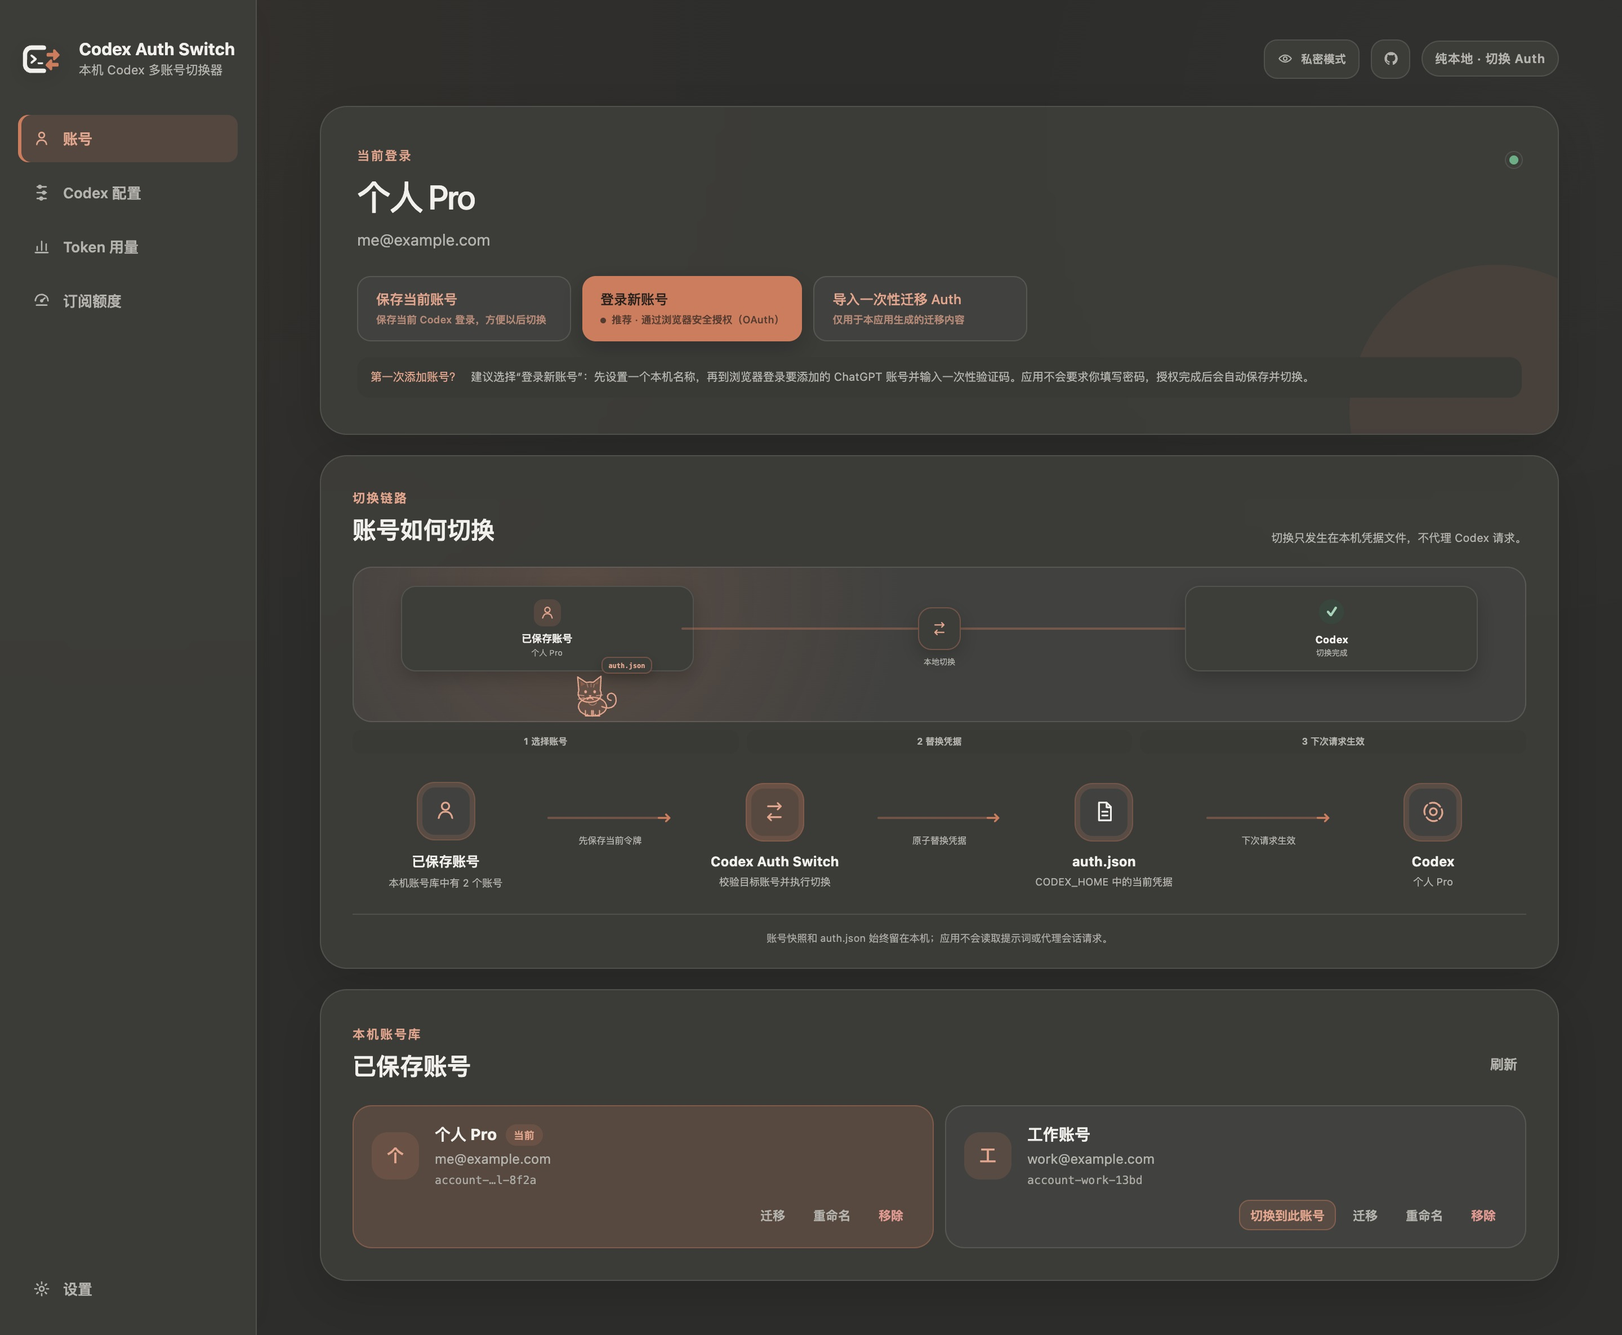
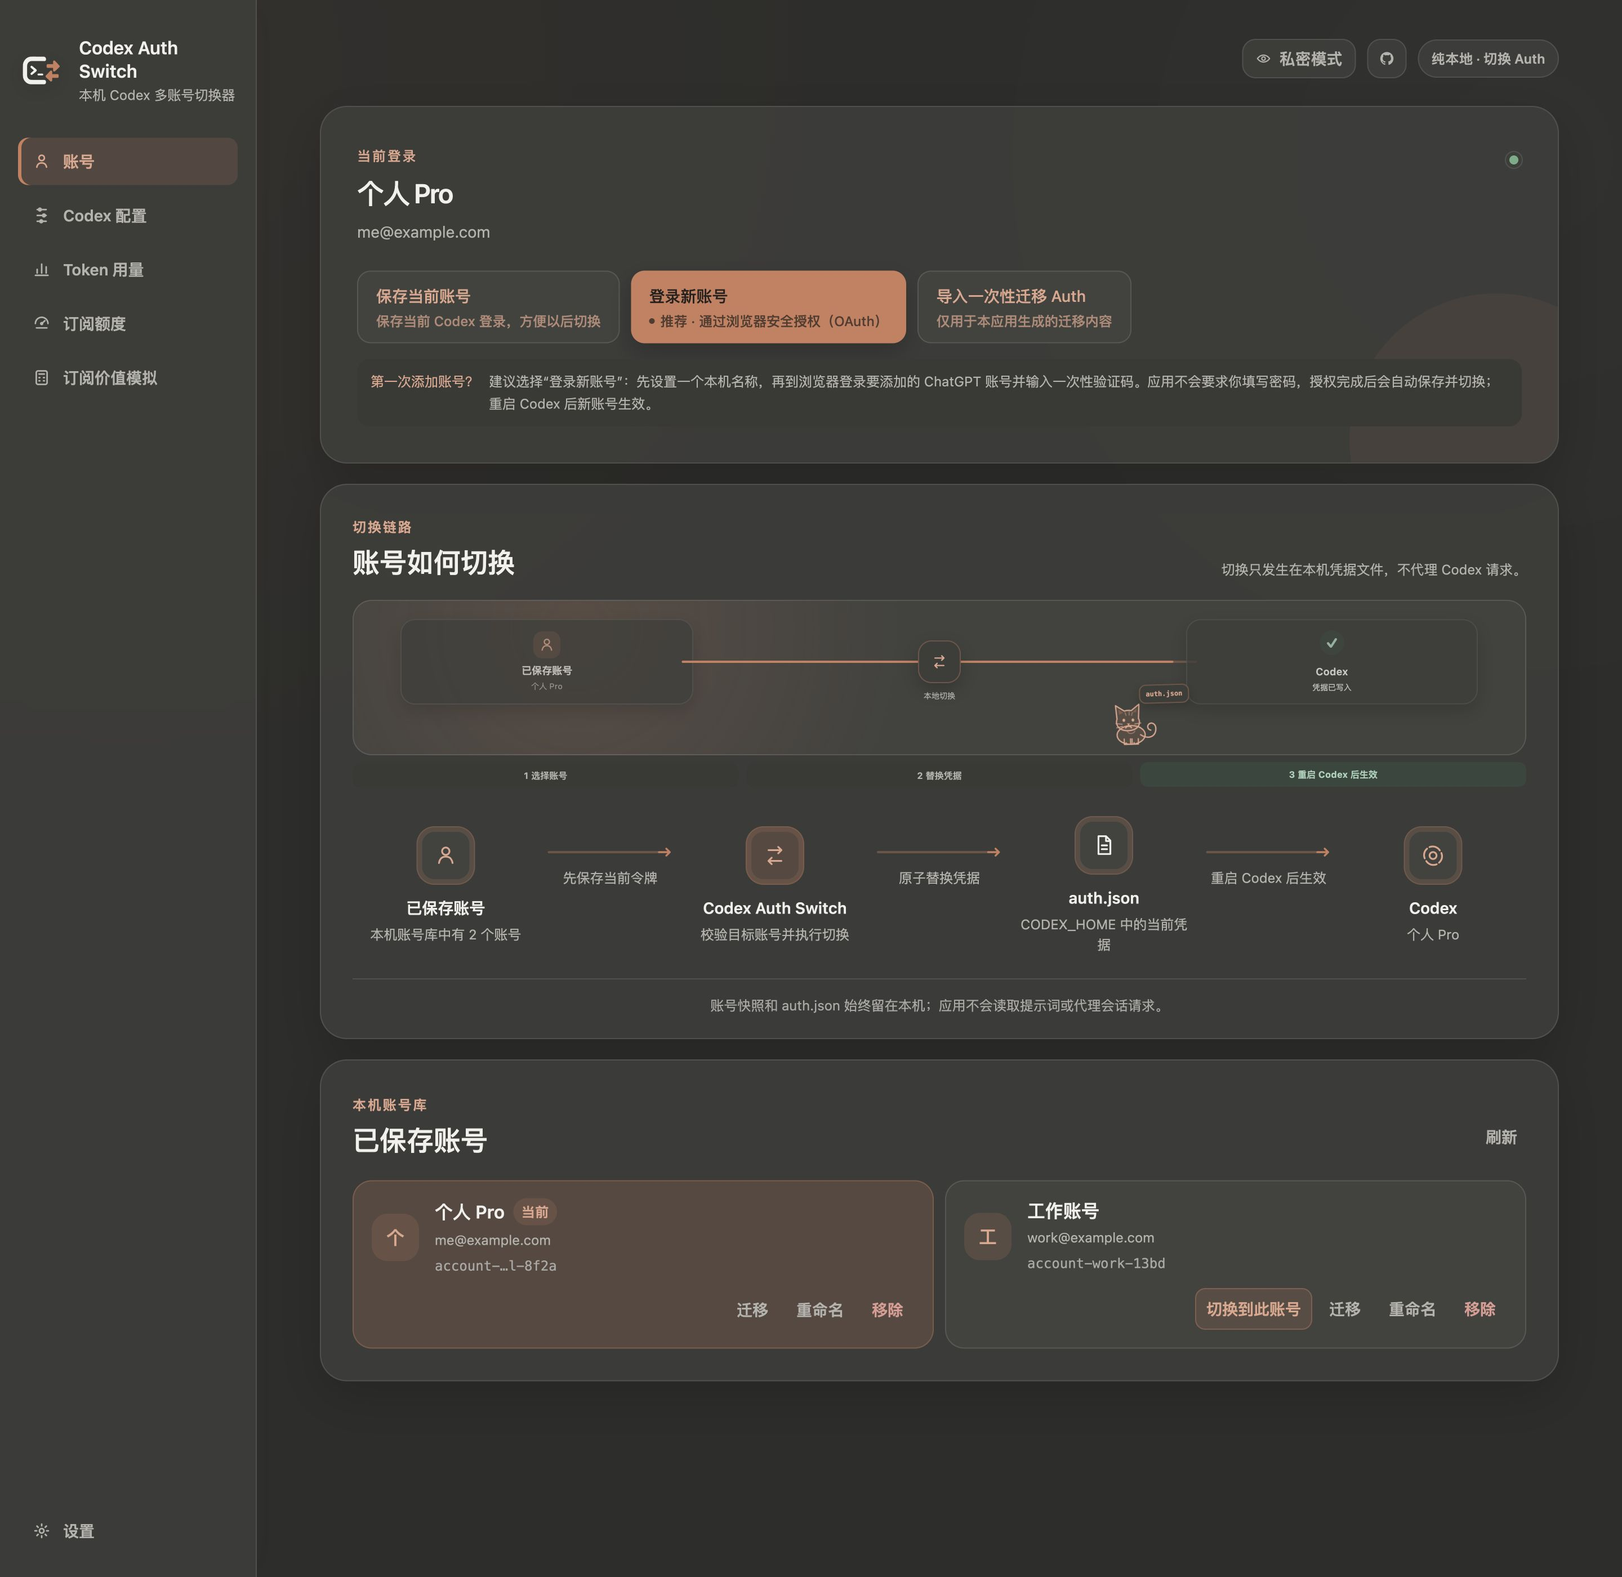
docs: 更新 README 说明

diff --git a/README.en.md b/README.en.md
@@ -16,17 +16,21 @@
   <a href="https://github.com/Mintimate/codex-auth-switch/releases/latest">Download</a> ·
   <a href="#quick-start">Quick start</a> ·
   <a href="#codex-configuration">Codex configuration</a> ·
+  <a href="#subscription-value-simulator">Value simulator</a> ·
   <a href="#security-boundaries">Security</a> ·
   <a href="#development">Development</a> ·
   <a href="https://github.com/Mintimate/codex-auth-switch/issues">Report an issue</a>
 </p>
 
-<picture>
-  <source media="(prefers-color-scheme: dark)" srcset="./docs/images/dashboard-dark.jpg">
-  <img src="./docs/images/dashboard-light.jpg" alt="Codex Auth Switch: current login, switching flow, and local account vault">
-</picture>
+<a href="./docs/images/dashboard-light.jpg">
+  <picture>
+    <source media="(prefers-color-scheme: dark)" srcset="./docs/images/dashboard-dark.jpg">
+    <img src="./docs/images/dashboard-light.jpg" alt="Codex Auth Switch: current account, sign-in actions, and switching flow">
+  </picture>
+</a>
 
-> Screenshots show the Chinese interface with built-in preview data. They contain no real accounts, tokens, or authentication data.
+> Both READMEs use Chinese UI screenshots from the app's built-in demo data. They contain no real accounts, tokens, or authentication data.
+> Static screenshots are rendered at 2× resolution, with originals 2880 pixels wide; the GIF retains its original dimensions. Click an image to view the original.
 
 Codex Auth Switch saves and switches multiple Codex ChatGPT logins on one device. It also provides Codex configuration editing, local Token usage, subscription quotas, subscription value simulation, and environment diagnostics. It does not proxy Codex requests, collect telemetry, or manage API keys, subscription billing, or workspace seats.
 
@@ -35,35 +39,45 @@ Codex Auth Switch saves and switches multiple Codex ChatGPT logins on one device
 
 ## Highlights
 
-- Save, rename, and switch local accounts while preserving rotated tokens before each switch
-- Add an account through browser-based Device Code authorization without entering a password in the app
-- Configure credential storage, the 1M context preset, reasoning effort and summaries, response verbosity, and web search
-- Summarize local session Tokens for today, 7 days, and 30 days, split by account and model provider
-- Show subscription quotas in a compact account list with search, status filters, and sorting by quota, recovery time, usage, or reset credits
-- Use a dedicated subscription value simulator to estimate the USD value of 7 / 30 days of usage with task presets, a reference model, adjustable shares, and a cost breakdown; optionally make it the default startup page
-- Show quota windows, recovery timelines, 7-day and 30-day Tokens, and daily activity heatmaps
-- Refresh usage, quotas, or account usage for the value simulator when opening each page, with an option to load data manually
-- Transfer Auth once through a QR code or clipboard, with legacy CAS2 import compatibility
-- Run read-only diagnostics, hide emails with privacy mode, and use light/dark themes, Chinese/English UI, and signed updates from GitHub or CNB
+The sidebar organizes actions and data into six pages:
+
+| Page                         | Purpose                                                                                                                  |
+| ---------------------------- | ------------------------------------------------------------------------------------------------------------------------ |
+| Accounts                     | Save, rename, and switch local accounts; sign in through Device Code; transfer Auth once with a QR code or clipboard     |
+| Codex config                 | Edit credential storage, context window, reasoning, response verbosity, and web search settings                          |
+| Token usage                  | View local session totals, daily trends, and attribution by account and model provider                                   |
+| Subscription quotas          | Search, filter, and compare account quotas, recovery times, reset credits, and daily activity                            |
+| Subscription value simulator | Independently estimate the API value of 7 / 30 days of account usage with adjustable models, shares, and cost breakdowns |
+| Settings                     | Choose language, theme, privacy, and startup page; manage automatic refresh, diagnostics, and signed updates             |
+
+Consistent text sizes and responsive layouts keep controls, cards, and scrollable tables readable in narrower windows. The value simulator opens with its controls visible, can be the default startup page, and provides separate account-usage and price refresh actions.
 
 ## Interface Preview
 
-| Codex configuration                                                                                                | Token usage                                                                                                      |
-| ------------------------------------------------------------------------------------------------------------------ | ---------------------------------------------------------------------------------------------------------------- |
-| ![Codex configuration: credential storage, 1M context, model output, and web search](docs/images/config-light.jpg) | ![Token usage: local totals, daily trends, and attribution by account and provider](docs/images/usage-light.jpg) |
+**Subscription value simulator: task presets, input and cache shares, and cost breakdown**
 
-| Subscription quota overview                                                                                  | App settings                                                                                     |
-| ------------------------------------------------------------------------------------------------------------ | ------------------------------------------------------------------------------------------------ |
-| ![Subscription quota overview: account list, search filters, Token totals, and daily activity](docs/images/quota-light.jpg) | ![App settings: language, privacy, theme, and automatic refresh](docs/images/settings-light.jpg) |
+[![Dedicated value simulator: task presets, input and cache shares, and cost breakdown](docs/images/value-light.jpg)](docs/images/value-light.jpg)
 
 <details>
-<summary>Diagnostics and one-time Auth transfer</summary>
+<summary>View the value simulator in dark mode</summary>
 
-| Diagnostics                                                                 | One-time Auth transfer                                                                                                  |
-| --------------------------------------------------------------------------- | ----------------------------------------------------------------------------------------------------------------------- |
-| ![Read-only diagnostics and app updates](docs/images/diagnostics-light.jpg) | ![One-time Auth transfer dialog showing the preparation and generated-QR states](docs/images/auth-share-dialog.gif) |
+[![Subscription value simulator in dark mode](docs/images/value-dark.jpg)](docs/images/value-dark.jpg)
 
 </details>
+
+| Codex configuration                                                                                                         | Token usage                                                                                                               |
+| --------------------------------------------------------------------------------------------------------------------------- | ------------------------------------------------------------------------------------------------------------------------- |
+| [![Codex configuration: credential storage and context window](docs/images/config-light.jpg)](docs/images/config-light.jpg) | [![Token usage: local session totals, trends, and attribution](docs/images/usage-light.jpg)](docs/images/usage-light.jpg) |
+
+| Subscription quotas                                                                                                                    | Settings                                                                                                                              |
+| -------------------------------------------------------------------------------------------------------------------------------------- | ------------------------------------------------------------------------------------------------------------------------------------- |
+| [![Subscription quotas: account comparisons, filters, and activity heatmap](docs/images/quota-light.jpg)](docs/images/quota-light.jpg) | [![Settings: language, privacy, appearance, default page, and proxy](docs/images/settings-light.jpg)](docs/images/settings-light.jpg) |
+
+| Diagnostics                                                                                                                    | One-time Auth transfer                                                                                                                  |
+| ------------------------------------------------------------------------------------------------------------------------------ | --------------------------------------------------------------------------------------------------------------------------------------- |
+| [![Read-only environment diagnostics and check results](docs/images/diagnostics-light.jpg)](docs/images/diagnostics-light.jpg) | [![Auth transfer animation: preparation and demo QR-code states](docs/images/auth-share-dialog.gif)](docs/images/auth-share-dialog.gif) |
+
+The Auth transfer animation uses a built-in demo pattern with no usable credentials.
 
 ## Download and Install
 
@@ -118,23 +132,40 @@ Selecting **Default** removes the corresponding fields so Codex can use its defa
 
 ## Usage and Quotas
 
-The subscription value simulator has its own sidebar page, with estimation controls visible when opened. You can also make it the default startup page in Settings. It uses the same account usage data source as subscription quotas and can refresh that data directly, without first opening the quota page. Simulations use account daily token totals for 7 / 30 UTC calendar days including today. Select all accounts or one account; duplicate local profiles of the same subscription are counted once. Missing usage stays unknown, and failed refreshes retain clearly labeled prior data. This feature does not read or classify local sessions.
+| Page                         | Data source                                                | Meaning                                                                            |
+| ---------------------------- | ---------------------------------------------------------- | ---------------------------------------------------------------------------------- |
+| Token usage                  | Local Codex session metadata                               | This device's usage for today, 7 days, and 30 days; not account-wide totals        |
+| Subscription quotas          | Online account limits and daily Token totals               | Available quota, recovery times, and account usage; some fields may be unavailable |
+| Subscription value simulator | The same account daily totals, plus reference model prices | An API cost simulation based on assumptions, not a subscription or API bill        |
 
-Account daily totals do not include model, input/output, or cache breakdowns. Choose a reference model and assumed shares. The default multi-turn coding preset uses 99% input and 90% cached input; general multi-turn tasks use 90% input and 50% cached input; new tasks with little reuse use 80% input and 0% cached input. These presets are starting points for simulations, not task averages or measured account usage. Both shares can be adjusted with sliders and numeric inputs in 0.1% increments. Per-thread breakdowns in the current protocol cannot replace account-wide 7 / 30 day breakdowns.
+All three pages can refresh on demand; opening Accounts does not query quotas. Disable **Refresh when opened** under **Settings → Usage and quotas** to load data manually. The value simulator can refresh account usage directly, without opening the quota page first.
 
-The cached-input share is the proportion of assumed input tokens billed at the cached rate; it does not discount output. The page compares no cache with the selected cache assumption and breaks down tokens and costs for regular input, cached input, and output. A missing cached rate prevents calculation of the selected cache scenario only when the assumed cached-input count is greater than zero. Regular input and output-only usage can still be simulated at their respective rates.
+Refresh all accounts or one account at a time. Different accounts share two concurrent query slots; requests for the same account are serialized. Failures retain previous results and their timestamps; an initial failure offers a retry, and missing data stays unknown. Not every account returns every quota field. Wait before retrying a rate-limited request.
 
-Reusing a long, unchanged conversation prefix can improve cache hits; new tasks, compaction, model changes, or longer gaps can reduce reuse. The [multi-turn agent example in OpenAI's caching documentation](https://developers.openai.com/api/docs/guides/prompt-caching#multi-turn-agent) reports a cache-hit rate above 90%, but this is one deployment example, not an average for coding or general tasks. Adjust the assumptions to match how you work.
+<details>
+<summary>Local usage cache and cleanup</summary>
 
-Prices come from [OpenAI public pricing](https://developers.openai.com/api/docs/pricing). Bundled or cached prices load locally; **Fetch latest prices** downloads the public document without credentials or usage. Failures retain previous prices and their date. Simulations use current Standard short-context text rates, not subscription bills, and exclude long-context premiums, Fast, cache writes, tools, taxes and discounts. Pricing parsing is isolated from authentication and quota compatibility layers.
+Local usage supports `file`, `auto`, and `keyring` credential modes. The rebuildable `usage-cache.v2.json.gz` reuses unchanged file statistics, reads new complete lines incrementally, and rescans truncated or replaced files. It stores file validation metadata, provider identifiers, timestamps, and Token counts, without session bodies or authentication data. Account attribution depends on locally recorded switching history.
 
-**Token usage** aggregates local session metadata; **Subscription quotas** queries online account limits; the subscription value simulator uses account usage from that same online data source. All three pages can load and refresh data on demand, and opening the account page does not query subscription quotas. Disable **Refresh when opened** under **Settings → Usage and quotas** to load data manually with each page's button.
+The compressed cache is capped at 8 MiB and retains 35 days of statistics. Older entries can be evicted without affecting current complete totals. Startup and cache access remove caches not updated for 7 days, along with the legacy cache. View or clear it under **Settings → Usage and quotas**. Clearing preserves accounts, credentials, and session files; the next refresh rebuilds it as needed.
 
-When available, the quota page shows the plan, multiple quota windows, full-reset credits and expiry dates, account usage, and an activity heatmap. Not every account or data source returns all of these fields. Network errors can be retried manually; wait before retrying a rate-limited request.
+</details>
 
-Refresh all accounts or refresh one account from its card. Different accounts share two concurrent query slots; queries for the same account are serialized. Batch results appear as each account finishes. Failed refreshes retain the last successful result and show the error alongside the original query time.
+## Subscription Value Simulator
 
-Local usage works with `file`, `auto`, and `keyring` credential modes without migrating credentials. A rebuildable `usage-cache.v2.json.gz` in the app data directory reuses unchanged files, parses only new complete lines in appended files, and rescans truncated or replaced files. It stores file validation metadata, provider identifiers, event timestamps, and Token counts, without session bodies or authentication data. Account attribution still depends on locally recorded switching history. The compressed cache is capped at 8 MiB and retains 35 days of statistics. Older file entries are evicted when needed without changing the current complete totals. Startup and cache access remove caches not updated for 7 days, along with the legacy cache. View the size or clear it under **Settings → Usage and quotas**. Clearing preserves accounts, credentials, and Codex session files; the next refresh rebuilds the cache as needed.
+Select all accounts or one account to aggregate daily Token totals for 7 / 30 UTC calendar days including today. Duplicate local profiles of the same subscription are counted once. This feature does not read local sessions, and account totals do not reveal the actual model, input/output, or cache breakdown.
+
+| Simulation preset           | Input share | Cached-input share |
+| --------------------------- | ----------- | ------------------ |
+| Multi-turn coding (default) | 99%         | 90%                |
+| General multi-turn tasks    | 90%         | 50%                |
+| New tasks / little reuse    | 80%         | 0%                 |
+
+Presets are starting assumptions, **not averages, measured account usage, or actual bills**. Adjust both shares with sliders or numeric inputs in 0.1% increments. The cache share applies to input tokens; output receives no cache discount. The page compares against no cache and separates regular-input, cached-input, and output costs. A missing cached rate affects a scenario only when its assumed cached-input count is greater than zero.
+
+Reusing context can improve cache hits, while compaction, model changes, or longer gaps can reduce reuse. The [official multi-turn agent caching example](https://developers.openai.com/api/docs/guides/prompt-caching#multi-turn-agent) reports above 90% for a particular deployment, not an average across tasks.
+
+Prices come from [OpenAI public pricing](https://developers.openai.com/api/docs/pricing). Bundled or locally cached prices load by default; **Fetch latest prices** downloads only the public document, without credentials or usage. Failures retain previous prices and their date. Simulations use Standard short-context text rates and exclude long-context premiums, Fast, cache writes, tools, taxes, and discounts. Pricing parsing is isolated from authentication and quota compatibility layers and does not guess prices when the document changes.
 
 ## Security Boundaries
 
@@ -158,7 +189,7 @@ accounts.v1.json
 
 ## Current Limitations
 
-- Saving and switching accounts and querying subscription quotas require `cli_auth_credentials_store = "file"`; local Token usage does not
+- Saving and switching accounts, querying subscription quotas, and loading account usage for the value simulator require `cli_auth_credentials_store = "file"`; local Token usage does not
 - Device Code login is still beta and may need to be enabled by the user or workspace administrator
 - The official App Server does not provide subscription expiry, and local Token totals are not the official subscription quota
 - Historical sessions lack reliable account IDs, so attribution begins after the app starts recording the switch timeline
@@ -171,6 +202,8 @@ Requires Node.js 20+, Rust stable, npm, and the platform dependencies for Tauri 
 npm install
 npm run dev
 ```
+
+For a browser UI preview, run `npm run dev:web` and open the address printed in the terminal. Browser development mode uses built-in demo data for pages and themes; validate real account operations in the Tauri app. Follow the [typography guide](docs/typography.md) when changing the UI, and check both languages, themes, and narrow-window layouts.
 
 Checks before committing:
 
